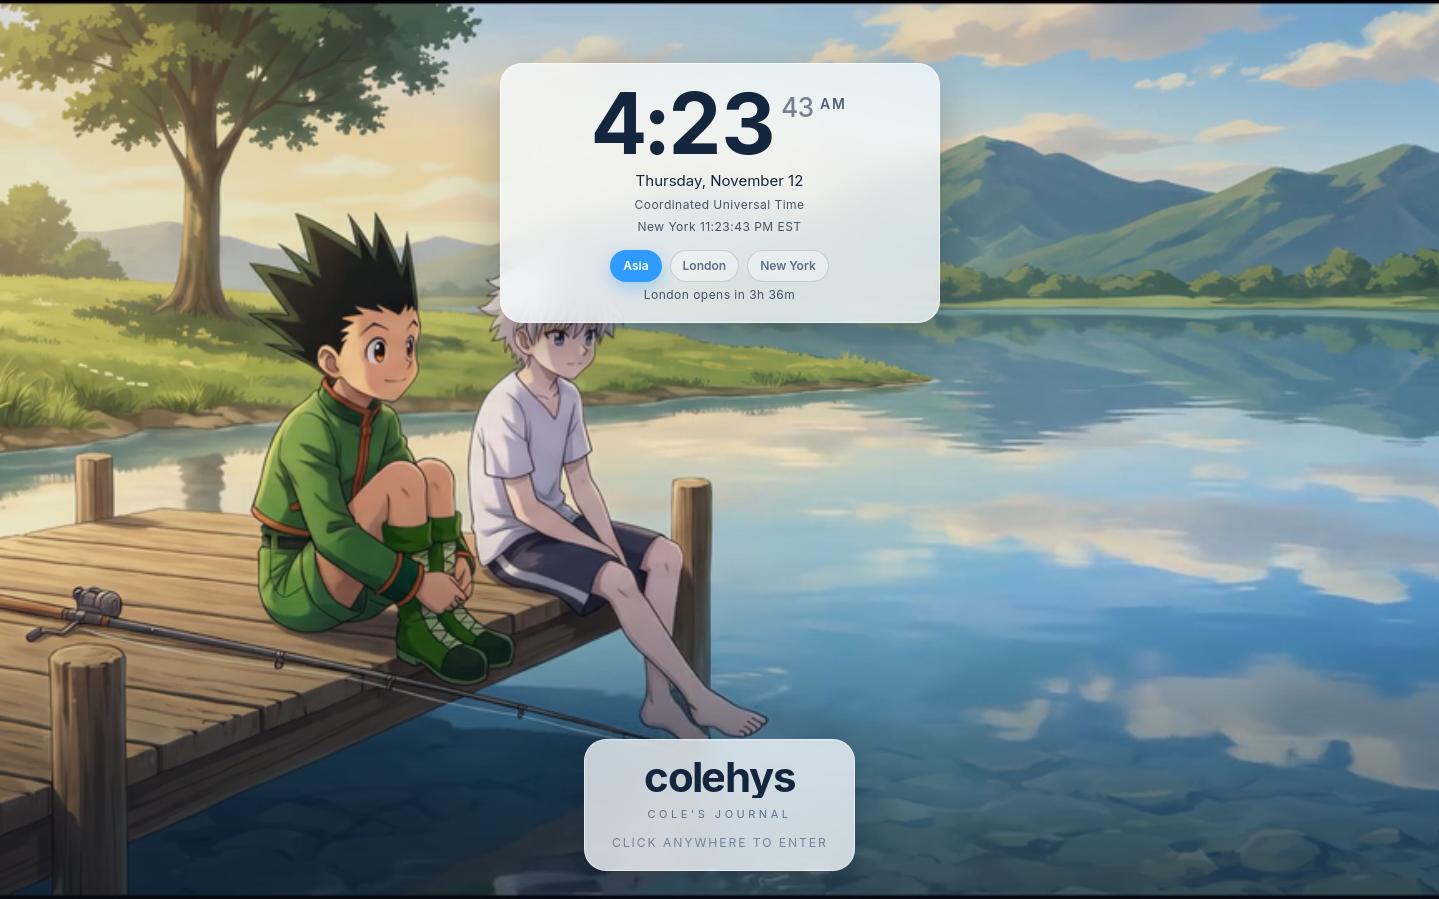
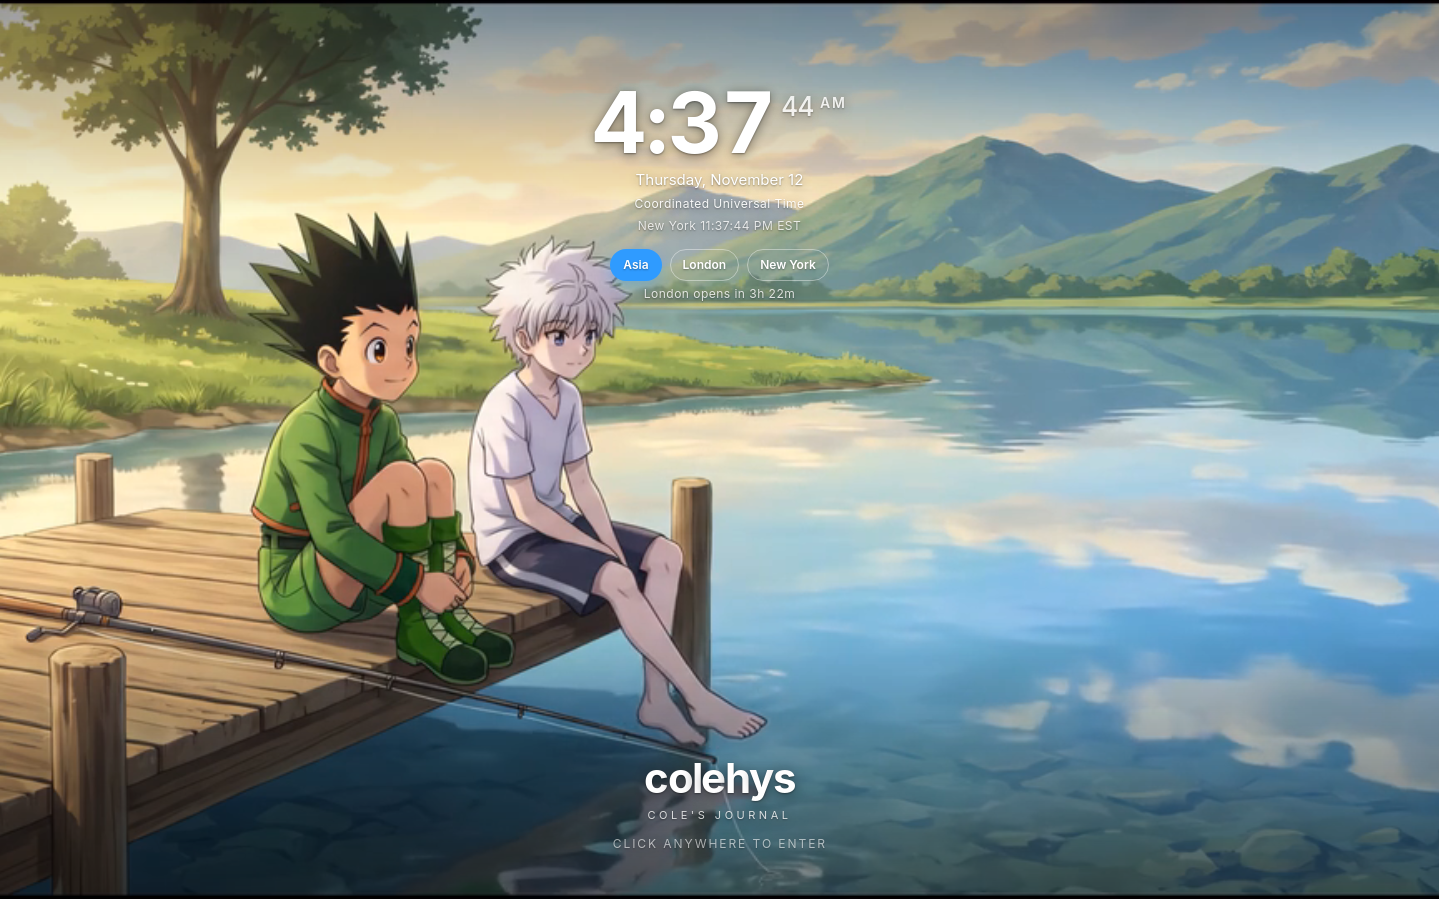
Let the entrance clock and name sit on the video.
Drop the frosted panels in 1.2.1 so the white type and session pills float over the dock loop.

diff --git a/src/renderer/styles.css b/src/renderer/styles.css
@@ -46,28 +46,26 @@ h1 { font-size: 30px; } h2 { font-size: 22px; } h3 { font-size: 14px; }
 .splash.out { opacity: 0; transform: scale(1.04); filter: blur(14px); pointer-events: none; }
 .splash-video { position: absolute; inset: 0; width: 100%; height: 100%; object-fit: cover; z-index: 0; }
 .splash-shade { position: absolute; inset: 0; z-index: 1; pointer-events: none;
-  background: linear-gradient(to top, rgba(8,18,32,.55) 0%, rgba(8,18,32,.08) 38%, rgba(8,18,32,.12) 100%); }
-.splash-panel { position: relative; z-index: 2; margin-top: 7vh; text-align: center; min-width: min(440px, 88vw); padding: 22px 28px 18px; }
-.glass { background: rgba(247,251,255,.78); color: #13263d; border: 1px solid rgba(255,255,255,.55); border-radius: 22px; box-shadow: 0 18px 50px rgba(8,18,32,.28); backdrop-filter: blur(16px); }
+  background: linear-gradient(to bottom, rgba(0,0,0,.38), transparent 24%), linear-gradient(to top, rgba(0,0,0,.48), transparent 30%); }
+.splash-panel, .splash-foot { position: relative; z-index: 2; text-align: center; background: none; border: 0; box-shadow: none; backdrop-filter: none; color: #fff; text-shadow: 0 2px 12px rgba(0,0,0,.45), 0 1px 2px rgba(0,0,0,.35); }
+.splash-panel { margin-top: 7vh; min-width: min(440px, 88vw); padding: 22px 28px 18px; }
 .splash-time { display: flex; align-items: flex-start; justify-content: center; gap: 6px; font-weight: 650; letter-spacing: -.04em; line-height: .9; }
 .splash-time #splashHm { font-size: clamp(56px, 7vw, 84px); font-variant-numeric: tabular-nums; }
-.splash-time .sec { font-size: clamp(18px, 2vw, 26px); font-weight: 500; opacity: .55; margin-top: 10px; font-variant-numeric: tabular-nums; }
-.splash-time .ampm { font-size: 14px; letter-spacing: .14em; text-transform: uppercase; opacity: .7; margin-top: 12px; font-weight: 600; }
+.splash-time .sec { font-size: clamp(18px, 2vw, 26px); font-weight: 500; opacity: .8; margin-top: 10px; font-variant-numeric: tabular-nums; }
+.splash-time .ampm { font-size: 14px; letter-spacing: .14em; text-transform: uppercase; opacity: .8; margin-top: 12px; font-weight: 600; }
 .splash-date { margin-top: 8px; font-size: 15px; }
-.splash-tz, .splash-ny, .splash-next { font-size: 12px; letter-spacing: .04em; opacity: .75; margin-top: 4px; }
-.splash-closed { margin-top: 10px; font-size: 13px; font-weight: 650; letter-spacing: .16em; text-transform: uppercase; color: #d9542b; }
+.splash-tz { font-size: 12px; letter-spacing: .04em; margin-top: 4px; opacity: .9; }
+.splash-ny, .splash-next { font-size: 12px; letter-spacing: .04em; margin-top: 4px; color: rgba(255,255,255,.8); }
+.splash-closed { margin-top: 10px; font-size: 13px; font-weight: 650; letter-spacing: .16em; text-transform: uppercase; color: #fff; }
 .splash-sessions { display: flex; justify-content: center; gap: 8px; margin-top: 14px; flex-wrap: wrap; }
-.sess { font-size: 12px; font-weight: 600; padding: 6px 12px; border-radius: 99px; border: 1px solid rgba(19,38,61,.16); color: #5b7089; background: rgba(255,255,255,.35); }
-.sess.on { background: #2f9bff; color: #fff; border-color: transparent; box-shadow: 0 6px 16px rgba(47,155,255,.35); }
-.splash-foot { position: relative; z-index: 2; text-align: center; padding: 16px 28px 18px; margin-bottom: 28px; display: flex; flex-direction: column; align-items: center; gap: 6px; }
-.splash-name { font-size: clamp(28px, 3vw, 42px); line-height: 1; font-weight: 700; letter-spacing: -.04em; margin: 0; display: flex; justify-content: center; }
-.splash-name span { display: inline-block; opacity: 0; transform: translateY(.45em) rotate(4deg); filter: blur(6px);
-  background: linear-gradient(100deg, #13263d 0%, #13263d 40%, #2f9bff 47%, #a8dcff 50%, #2f9bff 53%, #13263d 60%, #13263d 100%);
-  background-size: calc(var(--w, 200px) * 3) 100%; background-position: calc(var(--w, 200px) * -2 - var(--x, 0px)) 0;
-  -webkit-background-clip: text; background-clip: text; color: transparent;
-  animation: letterIn .7s var(--spring) forwards, shimmer 2.2s var(--ease) 1.3s forwards; }
-.splash-sub { font-size: 11px; letter-spacing: .32em; text-transform: uppercase; color: #5b7089; opacity: 0; animation: fadeUp .6s var(--ease) 1.1s forwards; }
-.splash-hint { margin-top: 6px; font-size: 12px; letter-spacing: .16em; text-transform: uppercase; color: #5b7089; opacity: 0; animation: fadeUp .6s var(--ease) 1.5s forwards, pulseHint 2.4s ease-in-out 2.1s infinite; }
+.sess { font-size: 12px; font-weight: 600; padding: 6px 12px; border-radius: 99px; border: 1px solid rgba(255,255,255,.4); color: #fff; background: transparent; text-shadow: 0 1px 2px rgba(0,0,0,.35); }
+.sess.on { background: #2f9bff; color: #fff; border-color: transparent; box-shadow: 0 6px 16px rgba(47,155,255,.4); }
+.splash-foot { padding: 16px 28px 18px; margin-bottom: 28px; display: flex; flex-direction: column; align-items: center; gap: 6px; }
+.splash-name { font-size: clamp(28px, 3vw, 42px); line-height: 1; font-weight: 700; letter-spacing: -.04em; margin: 0; display: flex; justify-content: center; color: #fff; }
+.splash-name span { display: inline-block; opacity: 0; transform: translateY(.45em) rotate(4deg); filter: blur(6px); color: #fff;
+  animation: letterIn .7s var(--spring) forwards; }
+.splash-sub { font-size: 11px; letter-spacing: .32em; text-transform: uppercase; color: rgba(255,255,255,.8); opacity: 0; animation: fadeUp .6s var(--ease) 1.1s forwards; }
+.splash-hint { margin-top: 6px; font-size: 12px; letter-spacing: .16em; text-transform: uppercase; color: rgba(255,255,255,.8); opacity: 0; animation: fadeUp .6s var(--ease) 1.5s forwards, pulseHint 2.4s ease-in-out 2.1s infinite; }
 @keyframes pulseHint { 0%, 100% { transform: scale(1); opacity: .72; } 50% { transform: scale(1.04); opacity: 1; } }
 .splash-line { font-size: 11px; color: var(--muted); min-height: 16px; margin-top: 4px; opacity: 0; animation: fadeUp .5s var(--ease) 1.3s forwards; }
 .splash-bar { width: 160px; height: 2px; border-radius: 2px; background: rgba(47,155,255,.18); overflow: hidden; margin-top: 4px; opacity: 0; animation: fadeUp .5s var(--ease) 1.3s forwards; }
@@ -479,12 +477,6 @@ html[data-theme="dark"] {
   --ask-a: rgba(19,40,66,.92); --ask-b: rgba(16,46,78,.85);
   --ring: #13233a;
   color-scheme: dark;
-}
-html[data-theme="dark"] .splash .glass { background: rgba(11,22,38,.72); color: #e7f2fc; border-color: rgba(255,255,255,.14); }
-html[data-theme="dark"] .sess { color: #b7c9dc; border-color: rgba(255,255,255,.16); background: rgba(255,255,255,.06); }
-html[data-theme="dark"] .splash-sub, html[data-theme="dark"] .splash-hint { color: #c5d7ea; }
-html[data-theme="dark"] .splash-name span {
-  background-image: linear-gradient(100deg, #f3fff0 0%, #f3fff0 40%, #b7e4ff 47%, #fff 50%, #b7e4ff 53%, #f3fff0 60%, #f3fff0 100%);
 }
 html[data-theme="dark"] .clouds span { opacity: .28; }
 html[data-theme="dark"] .cal .day.win { background: linear-gradient(var(--win-soft), var(--win-soft)), var(--surface-solid); }

diff --git a/src/renderer/index.html b/src/renderer/index.html
@@ -11,7 +11,7 @@
 <div id="splash" class="splash" hidden>
   <video id="splashVideo" class="splash-video" src="assets/entrance-loop.mp4" muted autoplay loop playsinline preload="auto"></video>
   <div class="splash-shade" aria-hidden="true"></div>
-  <div class="splash-panel glass">
+  <div class="splash-panel">
     <div class="splash-time"><span id="splashHm">–:––</span><span id="splashSec" class="sec">––</span><span id="splashAm" class="ampm"></span></div>
     <div class="splash-date" id="splashDate"></div>
     <div class="splash-tz" id="splashTz"></div>
@@ -20,7 +20,7 @@
     <div class="splash-sessions" id="splashSessions"></div>
     <div class="splash-next" id="splashNext"></div>
   </div>
-  <div class="splash-foot glass">
+  <div class="splash-foot">
     <h1 class="splash-name" id="splashName" aria-label="colehys"></h1>
     <div class="splash-sub">Cole's Journal</div>
     <div class="splash-hint">click anywhere to enter</div>

diff --git a/README.md b/README.md
@@ -1,6 +1,9 @@
-# Cole's Journal (v1.2.0)
+# Cole's Journal (v1.2.1)
 
 A clean, minimal, light sky-themed desktop trading journal for colehys. It uses monospace for numbers, with a sky-blue accent, Gon green for wins and orange-red for losses.
+
+## What's new in 1.2.1
+- The entrance clock and name sit directly on the video. The white panels are gone.
 
 ## What's new in 1.2.0
 - **Entrance**: Cole's dock video loops at half speed, with the local clock, New York time, and Asia / London / New York session pills (ET hours, including the weekend close). It stays until you click. "colehys" sits at the bottom.
@@ -42,9 +45,9 @@ You need your own **Bearer Token** from the X Developer Console (console.x.com).
 The installer and later updates use this same folder and do not delete it. To back up, copy that folder.
 
 ## Install / run
-- **Windows**: run `ColesJournal-Setup-1.2.0.exe`. It installs for the current user (no admin) and adds a desktop shortcut and a Start menu shortcut named Cole's Journal. The app is unsigned, so SmartScreen will show "Windows protected your PC". Click **More info → Run anyway**. After that, updates download in the background; click **Restart** on the Update ready pill to install them.
-- **macOS**: unzip `ColesJournal-1.2.0-mac-arm64.zip` (Apple Silicon) or `-mac-x64.zip` (Intel) and drag **Cole's Journal.app** to Applications. The app is unsigned and not notarized, so Gatekeeper blocks the first launch. Right-click the app, choose **Open**, then **Open** again, or go to System Settings → Privacy & Security → **Open Anyway**. If macOS says the app "is damaged", run `xattr -cr "/Applications/Cole's Journal.app"`.
-- **Linux**: `chmod +x ColesJournal-1.2.0-linux-x86_64.AppImage && ./ColesJournal-1.2.0-linux-x86_64.AppImage` (needs FUSE; otherwise add `--appimage-extract-and-run`).
+- **Windows**: run `ColesJournal-Setup-1.2.1.exe`. It installs for the current user (no admin) and adds a desktop shortcut and a Start menu shortcut named Cole's Journal. The app is unsigned, so SmartScreen will show "Windows protected your PC". Click **More info → Run anyway**. After that, updates download in the background; click **Restart** on the Update ready pill to install them.
+- **macOS**: unzip `ColesJournal-1.2.1-mac-arm64.zip` (Apple Silicon) or `-mac-x64.zip` (Intel) and drag **Cole's Journal.app** to Applications. The app is unsigned and not notarized, so Gatekeeper blocks the first launch. Right-click the app, choose **Open**, then **Open** again, or go to System Settings → Privacy & Security → **Open Anyway**. If macOS says the app "is damaged", run `xattr -cr "/Applications/Cole's Journal.app"`.
+- **Linux**: `chmod +x ColesJournal-1.2.1-linux-x86_64.AppImage && ./ColesJournal-1.2.1-linux-x86_64.AppImage` (needs FUSE; otherwise add `--appimage-extract-and-run`).
 - **From source (any OS)**: install Node 18+, then `npm install && npm start`.
 
 ## Develop / build
